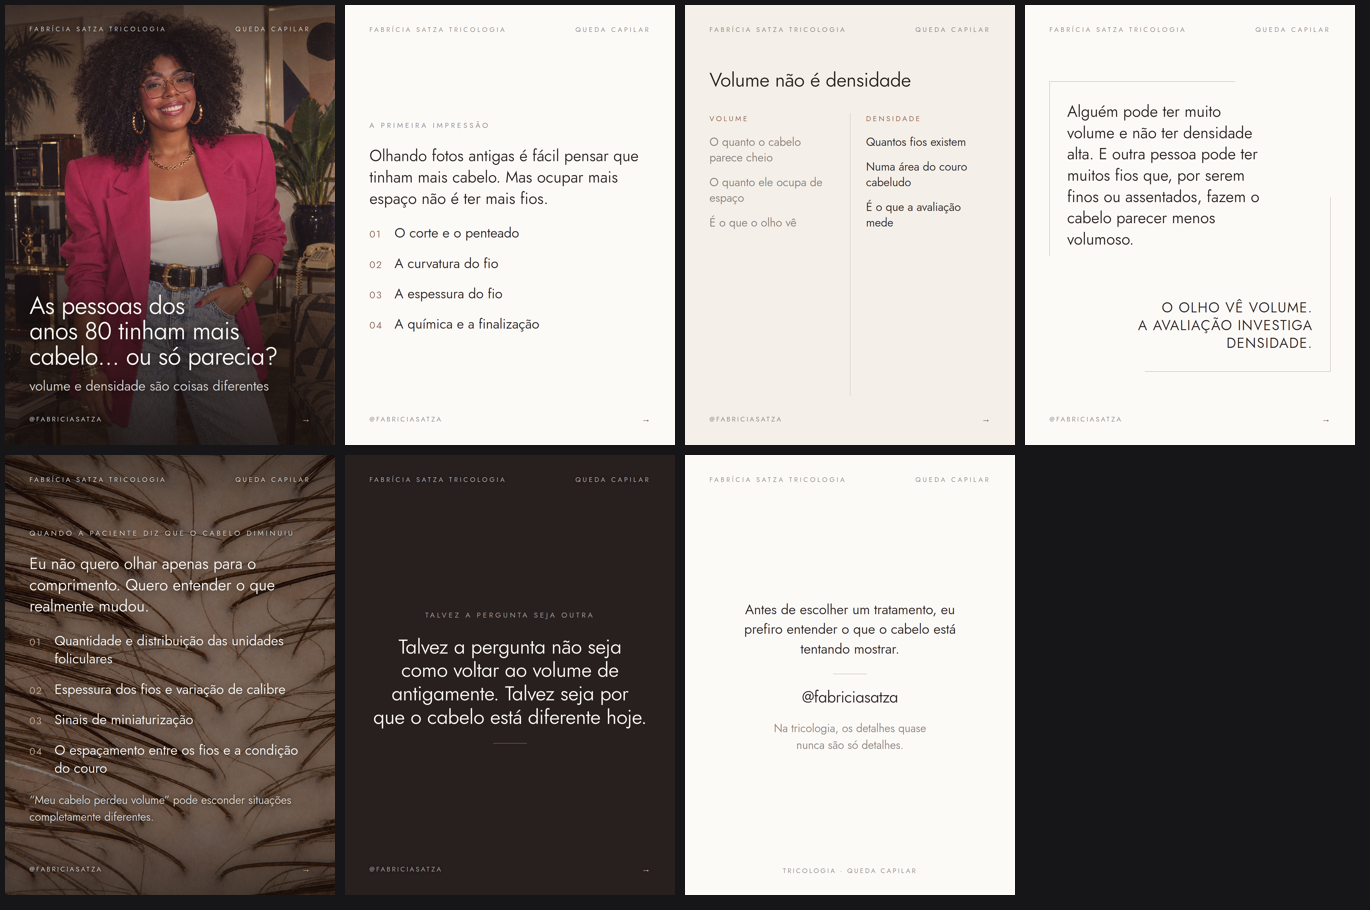
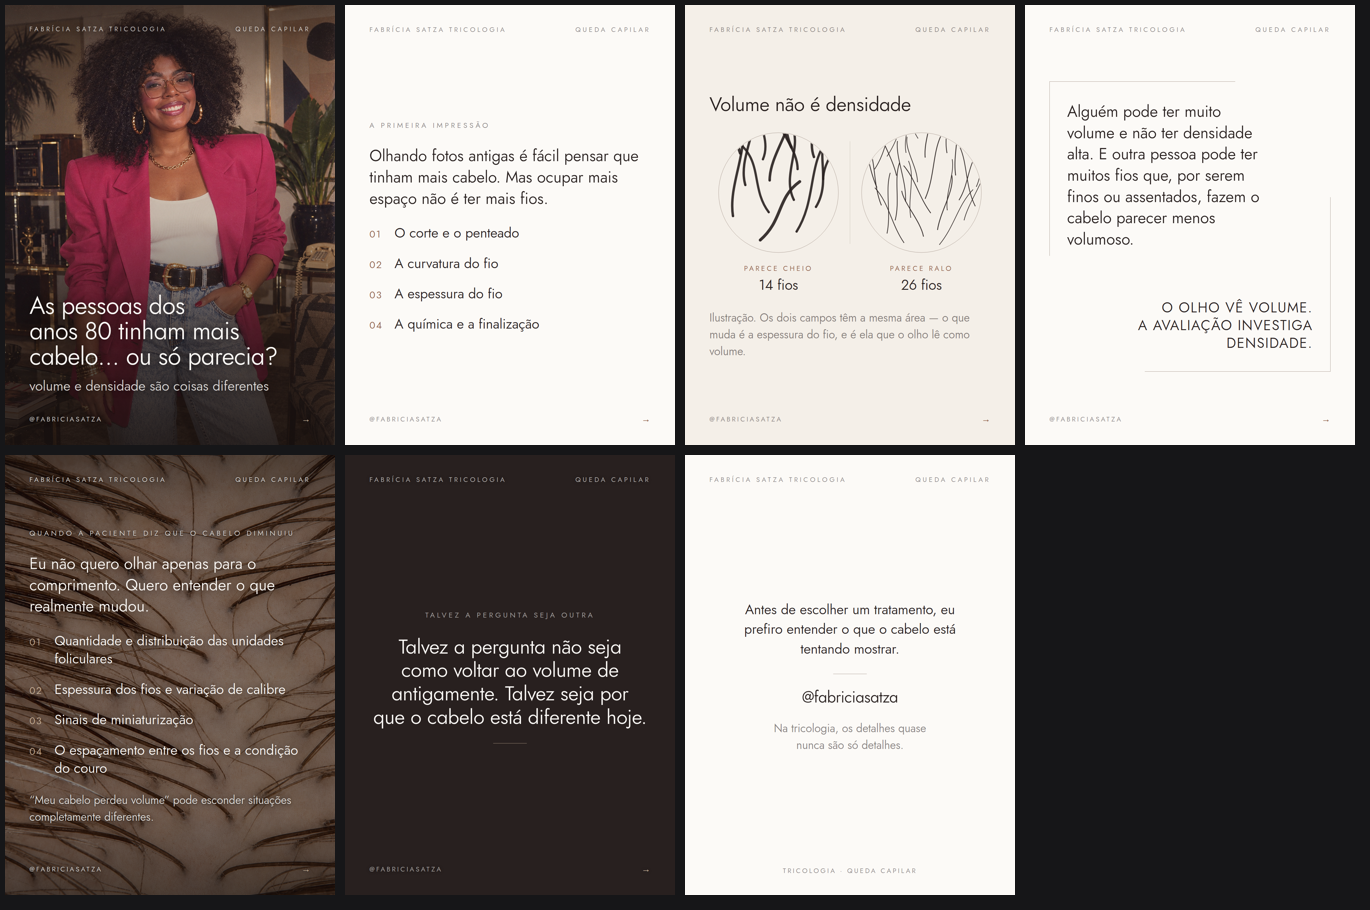
Volume x densidade: o slide mostra em vez de afirmar
O comparativo em duas colunas so declarava a diferenca. Entra um desenho:
dois campos circulares de mesma area, a esquerda 14 fios grossos e ondulados,
a direita 26 finos. O de menos fios parece mais cheio — o argumento inteiro
da peca resolvido numa imagem, sem uma linha de texto extra.

Os numeros sao reais no desenho: o gerador conta os foliculos que colocou e
escreve a contagem. Nao ha dado clinico inventado, e a legenda diz que e
ilustracao e que os dois campos tem a mesma area, que e o que torna a
comparacao valida.

Os fios sao cubicas com dois pontos de controle e ondulacao alternada, nao
retas: em reta o campo lia como grade de riscos, nao como cabelo. O SVG usa
a fonte da marca e a paleta — cafe nos fios, taupe no anel, terracota nos
rotulos.

Claude-Session: https://claude.ai/code/session_01DL9VyhWUWZtPxmDSzgTccC

Changed region(s): [[0.5212, 0.0615, 0.7051, 0.2769], [0.5212, 0.3077, 0.7051, 0.4]]

diff --git a/carrossel-volume-densidade.html b/carrossel-volume-densidade.html
@@ -400,6 +400,8 @@ em,i,.destaque{font-style:normal;color:var(--terracota-esc)}
 .cursor{display:inline-block;width:5px;height:.88em;margin-left:10px;
      vertical-align:-.11em;border-radius:2px;background:#F5A623}
 
+.campos{flex-shrink:0}
+.campos svg{display:block;width:100%;height:auto}
 </style>
 </head>
 <body>
@@ -434,31 +436,114 @@ em,i,.destaque{font-style:normal;color:var(--terracota-esc)}
   <div class="rod"><span>@fabriciasatza</span><span class="segue">&#8594;</span></div>
 </section>
 
-<!-- 03 ▸ COMPARATIVO — o coracao da peca. A coluna da esquerda vai mais
-     apagada, entao o olho cai na direita, que e onde a avaliacao mora. -->
+<!-- 03 ▸ CAMPOS — em vez de afirmar a diferenca em duas colunas de texto, o
+     slide MOSTRA. Dois campos de mesma area: a esquerda 14 fios grossos, a
+     direita 26 finos. O de menos fios parece mais cheio, e e o argumento
+     inteiro da peca resolvido em uma imagem.
+
+     Os numeros sao reais no desenho: o gerador conta os folículos que
+     colocou. Nao ha dado clinico inventado aqui, e a legenda diz que e
+     ilustracao. -->
 <section class="slide quente">
   <div class="cab"><span>Fabrícia Satza Tricologia</span><span>Queda capilar</span></div>
-  <div class="corpo topo" style="padding-top:210px">
+  <div class="corpo" style="gap:40px">
     <div class="titulo" style="font-size:64px">Volume não é densidade</div>
-    <div class="comparativo">
-      <div>
-        <div class="comp-cab">Volume</div>
-        <div class="comp-lista">
-          <div class="comp-item fraco">O quanto o cabelo parece cheio</div>
-          <div class="comp-item fraco">O quanto ele ocupa de espaço</div>
-          <div class="comp-item fraco">É o que o olho vê</div>
-        </div>
-      </div>
-      <div class="comp-fio"></div>
-      <div>
-        <div class="comp-cab">Densidade</div>
-        <div class="comp-lista">
-          <div class="comp-item">Quantos fios existem</div>
-          <div class="comp-item">Numa área do couro cabeludo</div>
-          <div class="comp-item">É o que a avaliação mede</div>
-        </div>
-      </div>
-    </div>
+    <div class="campos"><svg viewBox="0 0 920 556" width="920" height="556" xmlns="http://www.w3.org/2000/svg" font-family="'Fabricia Satza','Futura',sans-serif">
+<clipPath id="ca"><circle cx="226" cy="214" r="194"/></clipPath>
+<g clip-path="url(#ca)">
+<path d="M268.4 65.9 C225.4 -21.0 273.7 -118.2 229.4 -189.8" stroke="#28201F" stroke-width="9.62" fill="none" stroke-linecap="round" opacity=".9"/>
+<circle cx="268.4" cy="65.9" r="3.8" fill="#28201F" opacity=".45"/>
+<path d="M101.1 85.3 C70.7 8.5 120.0 -77.3 68.1 -140.5" stroke="#28201F" stroke-width="9.53" fill="none" stroke-linecap="round" opacity=".9"/>
+<circle cx="101.1" cy="85.3" r="3.8" fill="#28201F" opacity=".45"/>
+<path d="M342.0 97.3 C314.2 22.3 380.2 -61.5 354.4 -123.2" stroke="#28201F" stroke-width="8.02" fill="none" stroke-linecap="round" opacity=".9"/>
+<circle cx="342.0" cy="97.3" r="3.2" fill="#28201F" opacity=".45"/>
+<path d="M175.0 104.9 C208.6 28.2 126.3 -57.5 162.5 -120.6" stroke="#28201F" stroke-width="7.36" fill="none" stroke-linecap="round" opacity=".9"/>
+<circle cx="175.0" cy="104.9" r="2.9" fill="#28201F" opacity=".45"/>
+<path d="M288.5 137.0 C288.9 58.3 187.3 -29.7 210.3 -94.5" stroke="#28201F" stroke-width="7.66" fill="none" stroke-linecap="round" opacity=".9"/>
+<circle cx="288.5" cy="137.0" r="3.1" fill="#28201F" opacity=".45"/>
+<path d="M372.5 169.5 C370.8 92.1 475.2 5.6 461.0 -58.2" stroke="#28201F" stroke-width="7.37" fill="none" stroke-linecap="round" opacity=".9"/>
+<circle cx="372.5" cy="169.5" r="2.9" fill="#28201F" opacity=".45"/>
+<path d="M197.1 173.7 C197.1 87.3 284.5 -9.2 268.8 -80.3" stroke="#28201F" stroke-width="8.41" fill="none" stroke-linecap="round" opacity=".9"/>
+<circle cx="197.1" cy="173.7" r="3.4" fill="#28201F" opacity=".45"/>
+<path d="M117.4 189.1 C90.1 94.7 178.5 -10.7 131.1 -88.4" stroke="#28201F" stroke-width="7.71" fill="none" stroke-linecap="round" opacity=".9"/>
+<circle cx="117.4" cy="189.1" r="3.1" fill="#28201F" opacity=".45"/>
+<path d="M276.2 237.6 C233.8 151.7 312.6 55.8 262.6 -14.9" stroke="#28201F" stroke-width="7.63" fill="none" stroke-linecap="round" opacity=".9"/>
+<circle cx="276.2" cy="237.6" r="3.1" fill="#28201F" opacity=".45"/>
+<path d="M348.6 260.8 C400.9 175.8 343.2 80.8 387.0 10.9" stroke="#28201F" stroke-width="7.71" fill="none" stroke-linecap="round" opacity=".9"/>
+<circle cx="348.6" cy="260.8" r="3.1" fill="#28201F" opacity=".45"/>
+<path d="M194.0 278.0 C136.4 201.3 173.5 115.6 97.6 52.5" stroke="#28201F" stroke-width="7.35" fill="none" stroke-linecap="round" opacity=".9"/>
+<circle cx="194.0" cy="278.0" r="2.9" fill="#28201F" opacity=".45"/>
+<path d="M77.0 290.5 C60.4 185.8 133.5 68.8 101.3 -17.4" stroke="#28201F" stroke-width="7.98" fill="none" stroke-linecap="round" opacity=".9"/>
+<circle cx="77.0" cy="290.5" r="3.2" fill="#28201F" opacity=".45"/>
+<path d="M285.2 341.4 C350.6 238.0 321.0 122.3 388.5 37.1" stroke="#28201F" stroke-width="7.54" fill="none" stroke-linecap="round" opacity=".9"/>
+<circle cx="285.2" cy="341.4" r="3.0" fill="#28201F" opacity=".45"/>
+<path d="M166.2 369.3 C241.4 304.2 220.3 231.5 295.6 177.9" stroke="#28201F" stroke-width="9.61" fill="none" stroke-linecap="round" opacity=".9"/>
+<circle cx="166.2" cy="369.3" r="3.8" fill="#28201F" opacity=".45"/>
+</g>
+<circle cx="226" cy="214" r="196" fill="none" stroke="#A99B91" stroke-width="1"/>
+<clipPath id="cb"><circle cx="694" cy="214" r="194"/></clipPath>
+<g clip-path="url(#cb)">
+<path d="M682.1 35.7 C652.2 -9.9 655.1 -60.8 626.3 -98.4" stroke="#28201F" stroke-width="2.06" fill="none" stroke-linecap="round" opacity=".9"/>
+<circle cx="682.1" cy="35.7" r="1.5" fill="#28201F" opacity=".45"/>
+<path d="M643.2 82.6 C633.2 33.2 662.5 -22.0 645.8 -62.7" stroke="#28201F" stroke-width="2.09" fill="none" stroke-linecap="round" opacity=".9"/>
+<circle cx="643.2" cy="82.6" r="1.5" fill="#28201F" opacity=".45"/>
+<path d="M777.2 83.2 C765.0 17.8 797.3 -55.3 780.3 -109.2" stroke="#28201F" stroke-width="2.53" fill="none" stroke-linecap="round" opacity=".9"/>
+<circle cx="777.2" cy="83.2" r="1.5" fill="#28201F" opacity=".45"/>
+<path d="M581.6 94.5 C624.9 31.2 631.7 -39.5 667.6 -91.6" stroke="#28201F" stroke-width="2.05" fill="none" stroke-linecap="round" opacity=".9"/>
+<circle cx="581.6" cy="94.5" r="1.5" fill="#28201F" opacity=".45"/>
+<path d="M705.9 98.0 C701.3 41.8 732.5 -21.0 724.6 -67.3" stroke="#28201F" stroke-width="2.76" fill="none" stroke-linecap="round" opacity=".9"/>
+<circle cx="705.9" cy="98.0" r="1.5" fill="#28201F" opacity=".45"/>
+<path d="M541.0 136.6 C581.6 75.9 580.3 8.1 618.9 -41.8" stroke="#28201F" stroke-width="2.37" fill="none" stroke-linecap="round" opacity=".9"/>
+<circle cx="541.0" cy="136.6" r="1.5" fill="#28201F" opacity=".45"/>
+<path d="M805.7 156.4 C796.7 96.1 818.2 28.8 810.2 -20.8" stroke="#28201F" stroke-width="2.73" fill="none" stroke-linecap="round" opacity=".9"/>
+<circle cx="805.7" cy="156.4" r="1.5" fill="#28201F" opacity=".45"/>
+<path d="M612.0 157.1 C598.0 95.5 552.2 26.7 543.4 -24.1" stroke="#28201F" stroke-width="2.53" fill="none" stroke-linecap="round" opacity=".9"/>
+<circle cx="612.0" cy="157.1" r="1.5" fill="#28201F" opacity=".45"/>
+<path d="M680.9 178.7 C679.9 129.0 638.7 73.5 646.8 32.6" stroke="#28201F" stroke-width="2.28" fill="none" stroke-linecap="round" opacity=".9"/>
+<circle cx="680.9" cy="178.7" r="1.5" fill="#28201F" opacity=".45"/>
+<path d="M873.8 193.8 C897.9 141.9 879.8 83.9 903.8 41.1" stroke="#28201F" stroke-width="2.19" fill="none" stroke-linecap="round" opacity=".9"/>
+<circle cx="873.8" cy="193.8" r="1.5" fill="#28201F" opacity=".45"/>
+<path d="M547.6 196.3 C518.1 129.1 517.0 54.1 480.5 -1.3" stroke="#28201F" stroke-width="2.65" fill="none" stroke-linecap="round" opacity=".9"/>
+<circle cx="547.6" cy="196.3" r="1.5" fill="#28201F" opacity=".45"/>
+<path d="M706.4 232.9 C736.7 163.8 730.4 86.7 756.8 29.8" stroke="#28201F" stroke-width="2.71" fill="none" stroke-linecap="round" opacity=".9"/>
+<circle cx="706.4" cy="232.9" r="1.5" fill="#28201F" opacity=".45"/>
+<path d="M817.3 237.6 C850.1 183.6 844.4 123.4 882.0 78.9" stroke="#28201F" stroke-width="2.49" fill="none" stroke-linecap="round" opacity=".9"/>
+<circle cx="817.3" cy="237.6" r="1.5" fill="#28201F" opacity=".45"/>
+<path d="M641.7 242.1 C645.5 175.5 609.3 101.0 615.2 46.2" stroke="#28201F" stroke-width="2.45" fill="none" stroke-linecap="round" opacity=".9"/>
+<circle cx="641.7" cy="242.1" r="1.5" fill="#28201F" opacity=".45"/>
+<path d="M562.3 254.6 C535.5 189.0 545.1 115.7 520.6 61.7" stroke="#28201F" stroke-width="2.59" fill="none" stroke-linecap="round" opacity=".9"/>
+<circle cx="562.3" cy="254.6" r="1.5" fill="#28201F" opacity=".45"/>
+<path d="M869.5 257.5 C837.3 192.8 844.2 120.5 820.6 67.2" stroke="#28201F" stroke-width="2.43" fill="none" stroke-linecap="round" opacity=".9"/>
+<circle cx="869.5" cy="257.5" r="1.5" fill="#28201F" opacity=".45"/>
+<path d="M778.2 270.6 C771.7 214.4 803.0 151.7 794.6 105.5" stroke="#28201F" stroke-width="2.17" fill="none" stroke-linecap="round" opacity=".9"/>
+<circle cx="778.2" cy="270.6" r="1.5" fill="#28201F" opacity=".45"/>
+<path d="M723.6 280.0 C685.3 227.8 673.4 169.4 636.1 126.4" stroke="#28201F" stroke-width="2.54" fill="none" stroke-linecap="round" opacity=".9"/>
+<circle cx="723.6" cy="280.0" r="1.5" fill="#28201F" opacity=".45"/>
+<path d="M658.8 295.0 C647.9 232.4 674.2 162.5 651.7 111.0" stroke="#28201F" stroke-width="2.10" fill="none" stroke-linecap="round" opacity=".9"/>
+<circle cx="658.8" cy="295.0" r="1.5" fill="#28201F" opacity=".45"/>
+<path d="M833.6 303.4 C848.3 244.3 899.5 178.1 903.3 129.4" stroke="#28201F" stroke-width="2.04" fill="none" stroke-linecap="round" opacity=".9"/>
+<circle cx="833.6" cy="303.4" r="1.5" fill="#28201F" opacity=".45"/>
+<path d="M608.1 303.5 C624.0 240.1 603.3 169.2 621.9 117.0" stroke="#28201F" stroke-width="2.56" fill="none" stroke-linecap="round" opacity=".9"/>
+<circle cx="608.1" cy="303.5" r="1.5" fill="#28201F" opacity=".45"/>
+<path d="M746.6 334.9 C755.6 274.8 802.0 207.7 793.3 158.2" stroke="#28201F" stroke-width="2.74" fill="none" stroke-linecap="round" opacity=".9"/>
+<circle cx="746.6" cy="334.9" r="1.5" fill="#28201F" opacity=".45"/>
+<path d="M581.4 346.5 C595.0 279.7 574.5 205.1 591.4 150.2" stroke="#28201F" stroke-width="2.40" fill="none" stroke-linecap="round" opacity=".9"/>
+<circle cx="581.4" cy="346.5" r="1.5" fill="#28201F" opacity=".45"/>
+<path d="M700.3 356.7 C690.3 306.6 637.0 250.5 629.5 209.2" stroke="#28201F" stroke-width="2.62" fill="none" stroke-linecap="round" opacity=".9"/>
+<circle cx="700.3" cy="356.7" r="1.5" fill="#28201F" opacity=".45"/>
+<path d="M636.2 377.4 C594.6 316.6 588.1 248.7 542.0 198.7" stroke="#28201F" stroke-width="2.38" fill="none" stroke-linecap="round" opacity=".9"/>
+<circle cx="636.2" cy="377.4" r="1.5" fill="#28201F" opacity=".45"/>
+<path d="M753.1 383.6 C802.9 322.6 813.3 254.5 862.2 204.4" stroke="#28201F" stroke-width="2.10" fill="none" stroke-linecap="round" opacity=".9"/>
+<circle cx="753.1" cy="383.6" r="1.5" fill="#28201F" opacity=".45"/>
+</g>
+<circle cx="694" cy="214" r="196" fill="none" stroke="#A99B91" stroke-width="1"/>
+<line x1="460" y1="46" x2="460" y2="382" stroke="#A99B91" stroke-width="1" opacity=".5"/>
+<text x="226" y="470" text-anchor="middle" fill="#8A5A44" font-size="23" letter-spacing="6">PARECE CHEIO</text>
+<text x="694" y="470" text-anchor="middle" fill="#8A5A44" font-size="23" letter-spacing="6">PARECE RALO</text>
+<text x="226" y="532" text-anchor="middle" fill="#28201F" font-size="46">14 fios</text>
+<text x="694" y="532" text-anchor="middle" fill="#28201F" font-size="46">26 fios</text>
+</svg></div>
+    <div class="texto-sm">Ilustração. Os dois campos têm a mesma área — o que muda é a espessura do fio, e é ela que o olho lê como volume.</div>
   </div>
   <div class="rod"><span>@fabriciasatza</span><span class="segue">&#8594;</span></div>
 </section>
